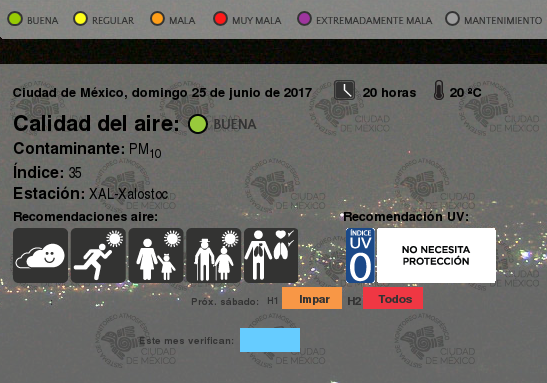
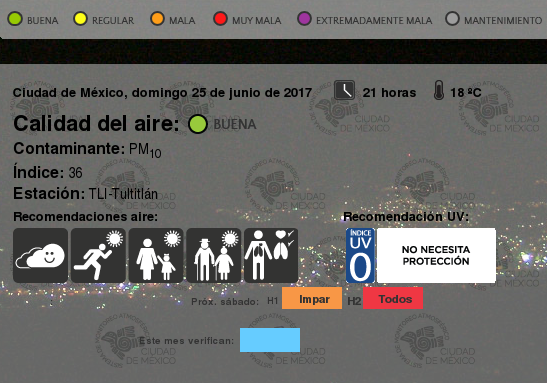
update images 25-06-2017 21:50

diff --git a/README.md b/README.md
@@ -6287,3 +6287,6 @@
 |25-06-2017 20:50
 |25-06-2017 21:03
 |25-06-2017 21:11
+|25-06-2017 21:20
+|25-06-2017 21:40
+|25-06-2017 21:50
